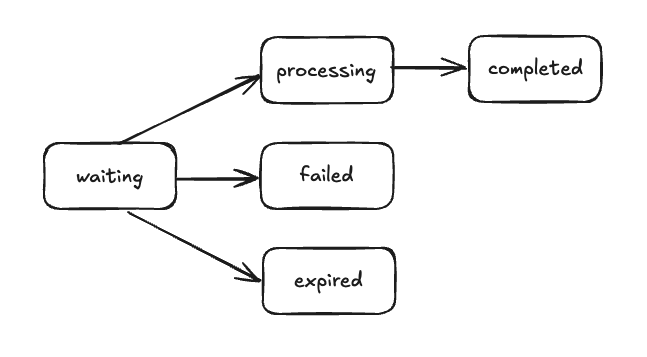
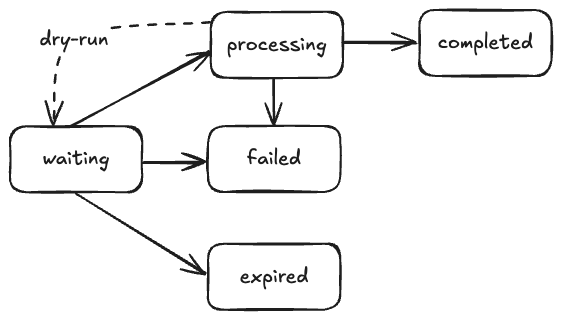
refactor(shared): bulk import status to failed
Ref. metriport/metriport-internal#2330

diff --git a/packages/shared/src/domain/patient/patient-import/status.ts b/packages/shared/src/domain/patient/patient-import/status.ts
@@ -28,21 +28,23 @@ export function validateNewStatus(
   newStatus: PatientImportStatus,
   dryRun?: boolean
 ): PatientImportStatus {
+  const additionalInfo = {
+    currentStatus,
+    newStatus,
+  };
   switch (newStatus) {
     case "waiting":
-      throw new BadRequestError(`Waiting is not a valid status to update`, undefined, {
-        currentStatus,
-        newStatus,
-      });
+      throw new BadRequestError(
+        `Waiting is not a valid status to update to`,
+        undefined,
+        additionalInfo
+      );
     case "processing":
       if (currentStatus !== "waiting" && currentStatus !== "processing") {
         throw new BadRequestError(
           `Import job is not in a valid state to update to processing`,
           undefined,
-          {
-            currentStatus,
-            newStatus,
-          }
+          additionalInfo
         );
       }
       break;
@@ -57,30 +59,21 @@ export function validateNewStatus(
         throw new BadRequestError(
           `Import job is not processing, cannot update to completed`,
           undefined,
-          {
-            currentStatus,
-            newStatus,
-          }
+          additionalInfo
         );
       }
       break;
     case "failed":
-      if (currentStatus !== "processing") {
+      if (currentStatus === "completed") {
         throw new BadRequestError(
-          `Import job is not processing, cannot update to failed`,
+          `Import job is completed, cannot update to failed`,
           undefined,
-          {
-            currentStatus,
-            newStatus,
-          }
+          additionalInfo
         );
       }
       break;
     default:
-      throw new BadRequestError(`Invalid import job status`, undefined, {
-        currentStatus,
-        newStatus,
-      });
+      throw new BadRequestError(`Invalid import job status`, undefined, additionalInfo);
   }
   return newStatus;
 }

diff --git a/packages/shared/src/domain/patient/patient-import/__tests__/status.test.ts b/packages/shared/src/domain/patient/patient-import/__tests__/status.test.ts
@@ -68,18 +68,26 @@ describe("validateNewStatus", () => {
   describe("new status is failed", () => {
     const destinationStatus = "failed";
 
+    it("allows updating from waiting", () => {
+      expect(validateNewStatus("waiting", destinationStatus)).toBe(destinationStatus);
+    });
+
     it("allows updating from processing", () => {
       expect(validateNewStatus("processing", destinationStatus)).toBe(destinationStatus);
     });
 
+    it("allows updating from failed", () => {
+      expect(validateNewStatus("failed", destinationStatus)).toBe(destinationStatus);
+    });
+
     describe("throws", () => {
-      for (const currentStatus of ["waiting", "completed", "failed"] as const) {
+      for (const currentStatus of ["completed"] as const) {
         it(`throws when updating from ${currentStatus}`, () => {
           expect(() => validateNewStatus(currentStatus, destinationStatus)).toThrow(
             BadRequestError
           );
           expect(() => validateNewStatus(currentStatus, destinationStatus)).toThrow(
-            "Import job is not processing, cannot update to failed"
+            "Import job is completed, cannot update to failed"
           );
         });
       }
